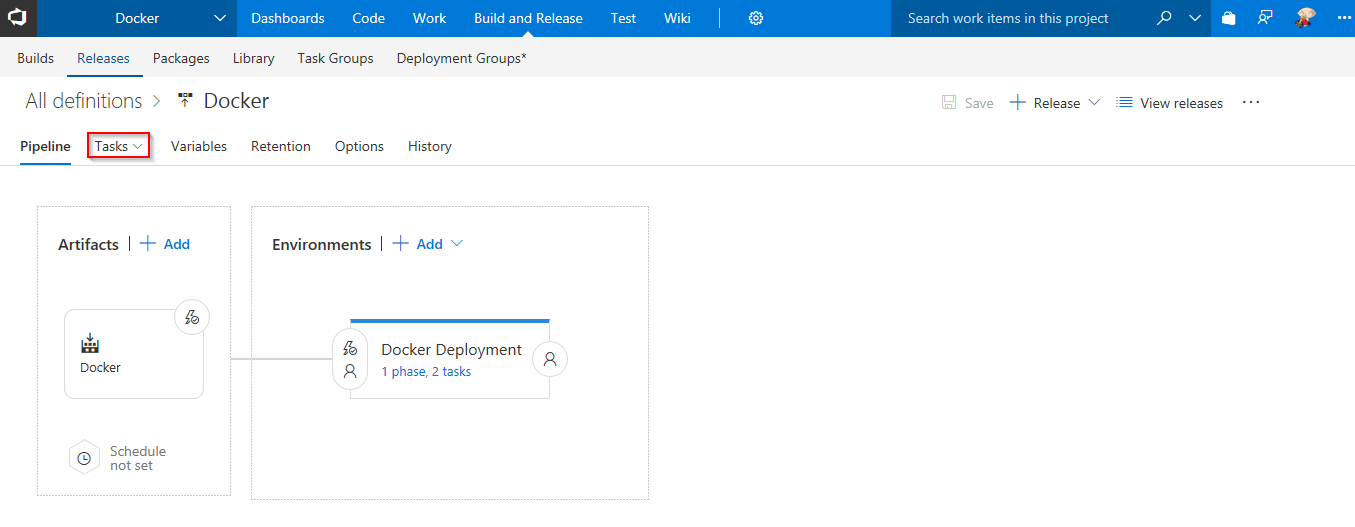
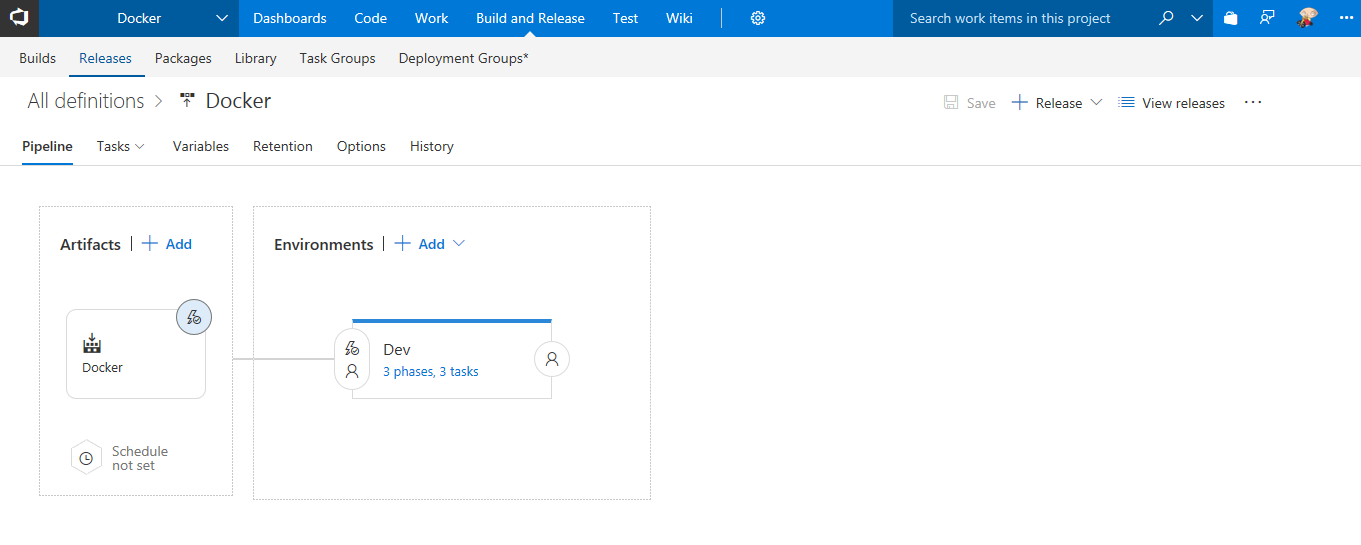
Updated content

diff --git a/docker/readme.md b/docker/readme.md
@@ -121,30 +121,13 @@ Since the connections are not established during project provisioning, we will m
 
 ## Exercise 2: Configure CI-CD
 
- Now that the connection is established, we will manually map the Azure endpoint and Azure Container Registry to build and release definitions. We will also deploy the dacpac to mhcdb database so that the schema is set for the backend.
+ Now that the connection is established, we will manually map the Azure endpoint and Azure Container Registry to build and release definitions. We will also deploy the dacpac to mhcdb database so that the schema and data is set for the backend.
 
-1. Go to **Releases** under **Build & Release** tab, **Edit** the release definition **Docker** and select **Tasks**.
-
-   <img src="images/release.png">
-   <br/>
-   <br/>
-   <img src="images/release_tasks.png">
-
-2. Update **Azure Subscription** from the dropdown. 
-
-    <img src="images/update_dbtask.png">
-
-3. Click on **Variables** section, update **ACR** and **SQLserver** with the details noted earlier while setting up the environment. Click **Save**. 
-
-    <img src="images/update_rdvariables.png">
-
-    >Note: **Database Name** is set to **mhcdb**, **Server Admin Login** is **sqladmin** and **Password** is **P2ssw0rd1234**.
-
-4. Go to **Builds** under **Build and Release** tab, **Edit** the build definition **Docker**.
+1. Go to **Builds** under **Build and Release** tab, **Edit** the build definition **Docker**.
 
    <img src="images/build.png">
 
-5. Click on **Process** section, select appropriate contents from dropdown under **Azure subscription** and **Azure Container Registry**. (use up down arrow to choose Azure Container Registry for the first time)
+2. Click on **Process** section, select appropriate contents from dropdown under **Azure subscription** and **Azure Container Registry**. (use up down arrow to choose Azure Container Registry for the first time). Click **Save**.
 
      >Note : You will encounter an error - ***TFS.WebApi.Exception: Page not found*** for Azure tasks in the build definition. This is due to a recent change in the VSTS Release Management API. While we are working on updating VSTS Demo Generator to resolve this issue, you can fix this by typing a random text in the Azure Subscription field and click the **Refresh** icon next to it. Once the field is refreshed, you can select the endpoint from the drop down.
 
@@ -186,125 +169,83 @@ Since the connections are not established during project provisioning, we will m
    </tr>
    </table>
 
-6. Click **Save & queue**.
+3. Go to **Releases** under **Build & Release** tab, **Edit** the release definition **Docker** and select **Tasks**.
 
-   <img src="images/queuebd.png">
+   <img src="images/release.png">
+   <br/>
+   <br/>
+   <img src="images/release_tasks.png">
 
-7. Queue a build by clicking **Save & queue** in the pop-up window.
+4. Under **Execute Azure SQL:DacpacTask**, update **Azure Subscription** from the dropdown. 
 
-    <img src="images/queuebd2.png">
+    <img src="images/update_dbtask.png">
 
-    The build will copy the dacpac to artifacts folder, which will be used in release for deploying this dacpac to database you created earlier. 
-    
-8. Go to **Releases** under **Build & Release** tab. Click on release definition **Docker** and double click on **Release-1**. Click on **Logs**. After this release is complete, the database schema will be deployed to SQL Database **mhcdb**.
+    **Execute Azure SQL:DacpacTask** will deploy the dacpac to mhcdb database so that the schema and data is set for the backend.
 
-    <img src="images/dacpac_deployment.png">
-
-9. Navigate to release definition **Docker** under **Releases** tab, and click on **Edit**. Click on **Tasks** and select **Phase1**. Under **Agent queue** select **Hosted Linux Preview** .
-
-    <img src="images/selectagent1.png">
-
-
-10. Right click on task **Execute Azure SQL : DacpacTask**, and select **Disable Selected Task(s)**. After this, right click on **Deploy Azure App Service** task, and select **Enable Selected Task(s)**.
-
-    <img src="images/disabletasks_rd.png">
-    <br/>
-    <br/>
-    <img src="images/enabletasks_rd.png">
-
-11. Under **Deploy Azure App Service** task, update **Azure subscription** and **Azure Service name** with the endpoint components from the dropdown. Click **Save**.
+5. Under **Azure App Service Deploy** task, update **Azure subscription** and **Azure Service name** with the endpoint components from the dropdown. Click **Save**.
 
     <img src="images/updatedrd.png">
 
-    **Deploy Azure App Service** will pull the appropriate image corresponding to the BuildID from repository specified, and deploys the image to Linux App Service. 
+    **Deploy Azure App Service** will pull the appropriate image corresponding to the BuildID from repository specified, and deploys the image to Linux App Service. **Manual Intervention** step is required to manually map the Azure Container Registry with the Azure Web App.
 
-## Exercise 3: Update Connection String
+6. Click on **Variables** section, update **ACR** and **SQLserver** with the details noted earlier while setting up the environment. Click **Save**. 
 
-Now that the database schema is set, we will push some data into the tables and update the connection string in MyHealthClinic .NetCore application.
+    <img src="images/update_rdvariables.png">
 
-1. Click on **Code** tab. Under **Files**, navigate to **healthclinic.sql** file in the **Docker** repository. Copy entire content of this file.
-
-    <img src="images/copysql.png">   
-
-2. Switch to **Azure Portal**, and navigate to **mhcdb** SQL database which you created at the beginning of this lab. Click on **Data Explorer** and **Login**. Under authorization type **SQL server authentication** provide database **Login: sqladmin** and **Password: P2ssw0rd1234**. Click **OK**.
-
-    <img src="images/dblogin.png">   
-
-3. Under **Query** section, paste the content copied from **healthclinic.sql** file as shown, and click on **Run**. This will now push required data into the database, so that our sample application MyHealthClinic could interact with it. Verify that message **Query succeeded** is displayed at the bottom. 
-
-    <img src="images/pastesql.png"> 
-
-4.  Scroll down and select **Connection Strings** section. Copy the contents as shown.
-
-    <img src="images/copy_connectionstring.png"> 
-
-5. Switch to your VSTS account. Go to **Code** tab, and navigate to the below path to **edit** the file **appsettings.json** 
-
-    >Docker/src/MyHealth.Web/appsettings.json
-
-    Go to line number **9**. Paste the connection string inside double quotes and manually update the **User ID** to **sqladmin** and **Password** to **P2ssw0rd1234**. Click on **Commit**.
-
-   <img src="images/paste_connectionstring.png">
+    >Note: **Database Name** is set to **mhcdb**, **Server Admin Login** is **sqladmin** and **Password** is **P2ssw0rd1234**.
 
 
-## Exercise 4: Enable CI and Update Code
+## Exercise 3: Code Update
 
-In this excercise, we will enable the continuous integration trigger to create a new build for each commit to the master branch, and update the code to trigger CI-CD. 
+In this excercise, we will update the code to trigger CI-CD. 
 
-1. Go to **Builds** under **Build and Release** tab, **Edit** the build definition **Docker**.
-
-   <img src="images/build2.png">
-
-2. Right click on each task **Run Services**, **Build Services**, **Push Services** and **Lock Services** one by one (or use Ctrl+Click to select multiple tasks, and then right click). Select **Enable Selected Task(s)** to enable all of these tasks. 
-
-    <img src="images/enabletasks_bd.png">
-
-    Disable **Copy Files** and **Publish Artifact** tasks by selecting **Disable Selected Task(s)** after right clicking on each of them.
-
-    <img src="images/disabletasks_bd.png">
-
-3. Click on **Triggers** section. Check the option to **Enable continuous integration**. Click **Save**.
-
-    <img src="images/enable_CI.png">
-
-4. Go to **Code** tab, and navigate to the below path to **Edit** the file- 
+1. Go to **Code** tab, and navigate to the below path to **Edit** the file- 
 
    >Docker/src/MyHealth.Web/Views/Home/**Index.cshtml**
 
    <img src="images/editcode.png">
 
-5. Go to line number **28**, update **JOIN US** to **JOIN US TODAY**, and click **Commit**.
+2. Go to line number **28**, update **JOIN US** to **JOIN US TODAY**, and click **Commit**.
 
     <img src="images/lineedit.png">
 
-6. Click **Commit** in the pop-up window.
+3. Click **Commit** in the pop-up window.
     <img src="images/commit.png">
 
-7. Go to **Builds** tab to see the CI build in-progress. Click on the build number.
+4. Go to **Builds** tab to see the CI build in-progress. Click on the build number to see the build in progress.
 
-    <img src="images/inprogressbuild.png">
+    <img src="images/build3.png">
 
-    <img src="images/in_progress_build.png">
-
-8. The build will generate and push the image to ACR. After build completes, you will see the build summary. 
+5. The build will generate and push the image to Azure Container Registry. After build completes, you will see the build summary. 
     
-    <img src="images/build_summary.png">
+    <img src="images/build4.png">
 
-9. Go to <a href="https://portal.azure.com">Azure Portal</a>, navigate to the **App Service** which was created at the beginning of this lab. Select **Docker Container** section. Under **Image Source** highlight **Azure Container Registry**. Select your **Registry** from the dropdown. Under **image** dropdown select **myhealth.web** and under **Tag** dropdown select **latest**. This is required to map Azure Container Registry with the Web App. Click **Save**.
+6. Go to **Releases**, and double click on recent Release. Navigate to **Logs** section to see the release in progress. It takes upto 3 to 4 minutes for dacpac deployment task to complete. In the meantime go to next step.
+
+    <img src="images/rel3.png">
+
+7. Go to <a href="https://portal.azure.com">Azure Portal</a>, navigate to the **App Service** which was created at the beginning of this lab. Select **Docker Container** section. Under **Image Source** highlight **Azure Container Registry**. Select your **Registry** from the dropdown. Under **image** dropdown select **myhealth.web** and under **Tag** dropdown select **latest**. This is required to map Azure Container Registry with the Web App. Click **Save**.
 
     <img src="images/updatereg.png">
     <br/>
     <br/>
     <img src="images/updatereg2.png">
  
-10. Go to **Releases** tab to see the release summary with logs. The release will deploy the image to App Service based on the **BuildID**, which is tagged with the image. 
+8. Switch back to **Releases** in VSTS. After the dacpac deployment task is complete, click on **Resume or Reject**.
 
-    <img src="images/release_summary.png">
-    <br/>
-    <br/>
-    <img src="images/release_logs.png">
+    <img src="images/rel5.png">
 
-11. Switch back to <a href="https://portal.azure.com">Azure Portal</a>, navigate to the **Overview** section of your **App Service**. Click on the **URL** to see the changes in your app.
+9. If you have already mapped the Azure Container Registry with the Azure Web App, give some comment and Click **Resume**. If not, go back to step 7 and then come back to this step.
+
+    <img src="images/rel6.png">
+
+    The release will deploy the image to App Service based on the **BuildID**, which is tagged with the image.
+    
+    <img src="images/rel7.png">
+    <br/>
+    <img src="images/rel8.png">
+
+10. Switch back to <a href="https://portal.azure.com">Azure Portal</a>, navigate to the **Overview** section of your **App Service**. Click on the **URL** to see the changes in your app.
 
     <img src="images/getwebappurl.png">
     <br/>
